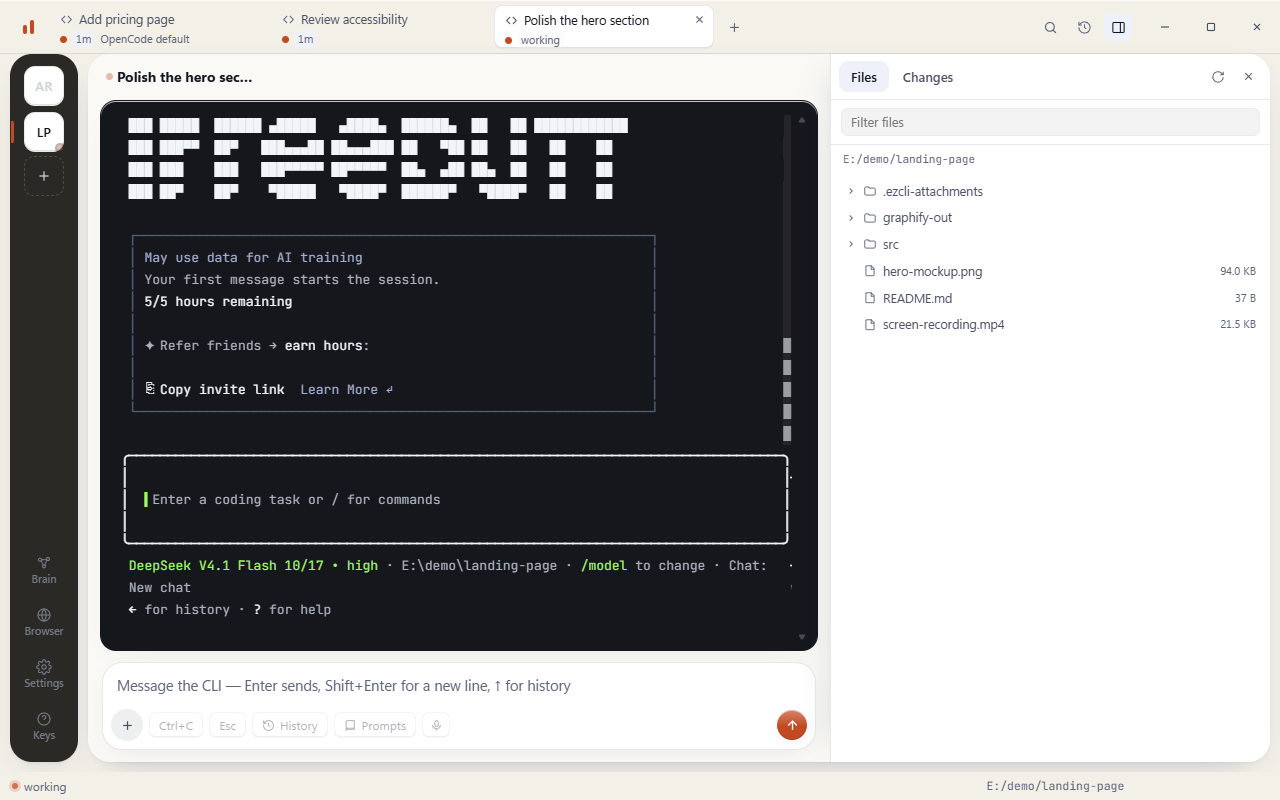
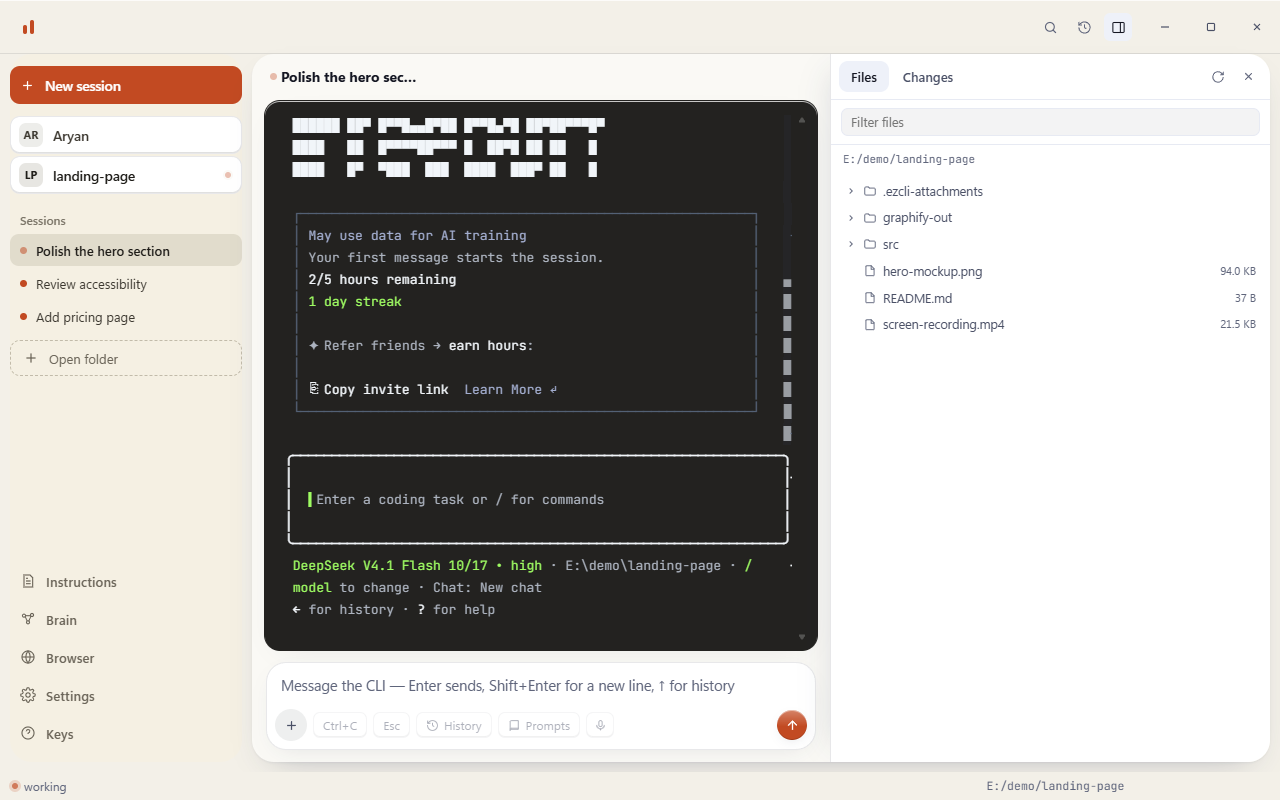
v2.9.9: new README screenshots with the sidebar, header title fix

diff --git a/public/features/reference.css b/public/features/reference.css
@@ -1043,7 +1043,8 @@
 .tab { width: 220px; }
 
 /* Header chips never wrap onto two lines; the row shrinks the title instead. */
-.head-chip { white-space: nowrap; flex: none; }
+.head-chip { white-space: nowrap; flex: 0 1 auto; min-width: 0; overflow: hidden; text-overflow: ellipsis; }
+.session-head .head-title { flex: 0 1 auto; min-width: 140px; }
 
 /* The search box draws its own focus ring; the input inside must not add a second one. */
 .search-box input:focus, .search-box input:focus-visible { outline: none !important; box-shadow: none !important; }

diff --git a/README.md b/README.md
@@ -133,6 +133,11 @@ catalog entry.
 - **Safer sending.** One Enter in the composer submits one message. ezCLI never types
   into a CLI's update, trust or sign-in question.
 
+### New in 2.9.9
+
+- **Fix:** with the explorer open, the session header could squeeze the title
+  down to nothing. The title now keeps a minimum width.
+
 ### New in 2.9.8
 
 - **Earlier sessions and stars in the sidebar.** Under your open sessions the
